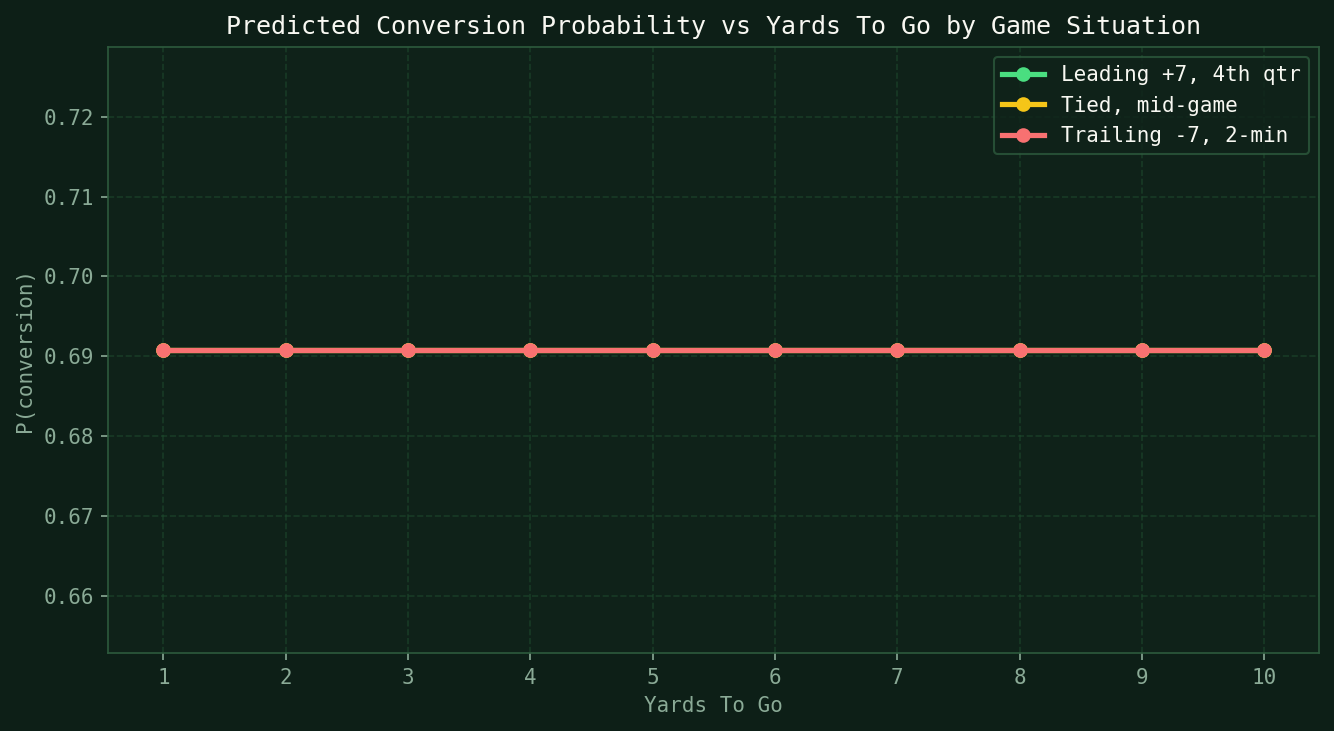
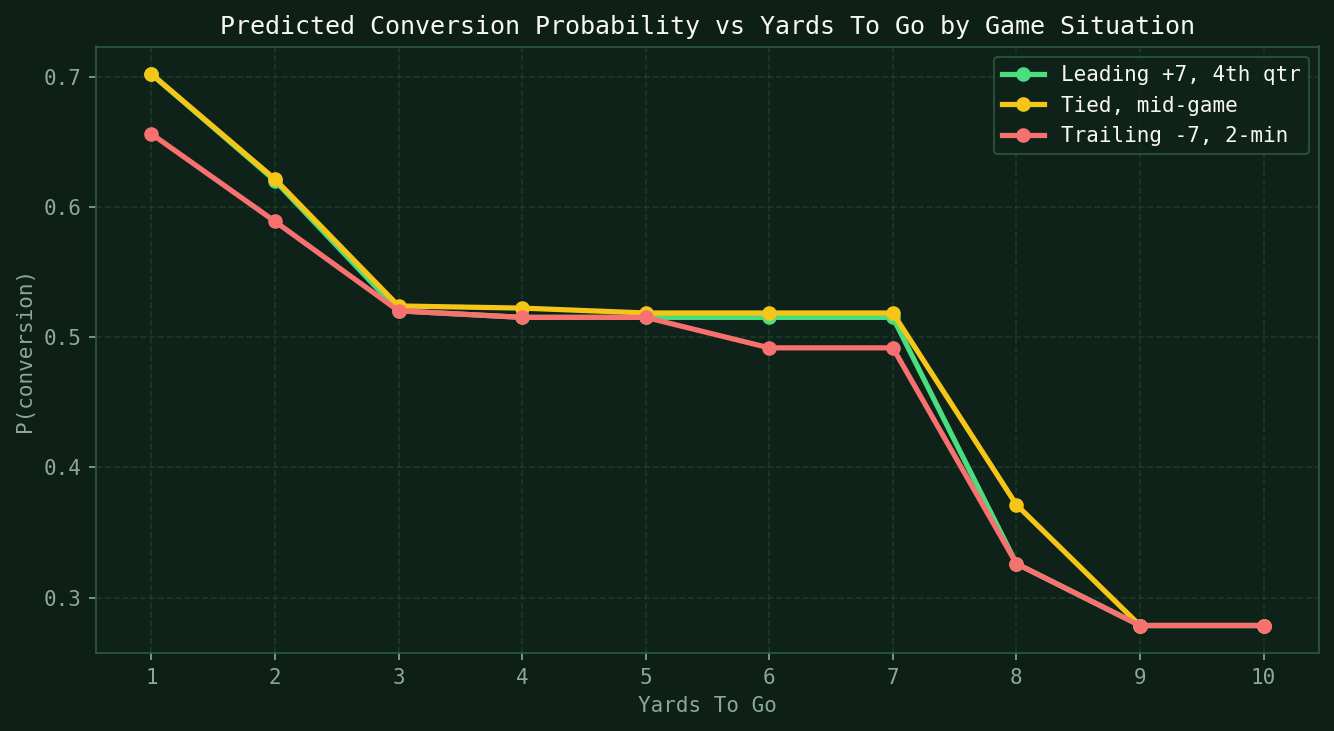
Fix 4th-down model: remove circular features, retrain, fix UI thresholds
- Remove go_conv_rate and go_stop_rate from CANDIDATE_FEATURE_COLS in the
  training script. These features had 70% combined importance but were based
  on tiny per-team 4th-down attempt samples (many teams had 0 or 1 attempts),
  producing extreme values (0% or 100%) in the snapshot that made the model
  output ~0.3% for every input regardless of ydstogo, score, or time remaining.
- Retrain model (80 search iterations) — ydstogo is now the #1 feature at 19%
  importance; probabilities now range correctly from ~75% (4th&1) to ~28% (4th&10)
- Update predict_conversion_prob() and _LEAGUE_AVG to remove go_conv_rate /
  go_stop_rate references
- Fix app.py: remove go_conv_rate/go_stop_rate from input_dict and all-teams loop
- Adjust verdict thresholds from 60%/45% to 58%/42% to match real NFL 4th-down
  conversion rate distributions (~55% overall for go-for-it attempts)
- Update diagnostic plots with new model

diff --git a/app.py b/app.py
@@ -29,6 +29,33 @@ MODEL_PATH      = _ROOT / "models" / "fourth_down_conversion.pkl"
 TEAM_STATS_PATH = _ROOT / "data" / "processed" / "team_stats_snapshot.csv"
 
 # ---------------------------------------------------------------------------
+# Page config — MUST be first Streamlit command
+# ---------------------------------------------------------------------------
+st.set_page_config(
+    page_title="4th Down Conversion Predictor",
+    page_icon="🏈",
+    layout="wide",
+)
+
+# ---------------------------------------------------------------------------
+# Custom CSS
+# ---------------------------------------------------------------------------
+st.markdown("""
+<style>
+    .main { background-color: #0a1628; }
+    .stMetric { background-color: #0f2219; border-radius: 8px; padding: 8px; }
+    .metric-card {
+        background: linear-gradient(135deg, #0f2219 0%, #0d1f17 100%);
+        border: 1px solid #2d5a3d;
+        border-radius: 10px;
+        padding: 16px;
+        text-align: center;
+    }
+    .stSelectbox > div > div { background-color: #0f2219; }
+</style>
+""", unsafe_allow_html=True)
+
+# ---------------------------------------------------------------------------
 # Load model and team stats
 # ---------------------------------------------------------------------------
 @st.cache_resource
@@ -60,33 +87,6 @@ cal_model  = model_data["model"]
 features   = model_data["features"]
 team_stats = load_team_stats()
 teams      = sorted(team_stats["team"].dropna().tolist())
-
-# ---------------------------------------------------------------------------
-# Page config
-# ---------------------------------------------------------------------------
-st.set_page_config(
-    page_title="4th Down Conversion Predictor",
-    page_icon="🏈",
-    layout="wide",
-)
-
-# ---------------------------------------------------------------------------
-# Custom CSS
-# ---------------------------------------------------------------------------
-st.markdown("""
-<style>
-    .main { background-color: #0a1628; }
-    .stMetric { background-color: #0f2219; border-radius: 8px; padding: 8px; }
-    .metric-card {
-        background: linear-gradient(135deg, #0f2219 0%, #0d1f17 100%);
-        border: 1px solid #2d5a3d;
-        border-radius: 10px;
-        padding: 16px;
-        text-align: center;
-    }
-    .stSelectbox > div > div { background-color: #0f2219; }
-</style>
-""", unsafe_allow_html=True)
 
 st.title("🏈 4th Down Conversion Predictor")
 st.markdown(
@@ -171,11 +171,9 @@ input_dict = {
     "epa_per_game_roll15":        _get(off_row, "epa_per_game_roll15"),
     "success_rate_roll15":        _get(off_row, "success_rate_roll15",     0.42),
     "points_per_game_roll15":     _get(off_row, "points_per_game_roll15",  23.0),
-    "go_conv_rate":               _get(off_row, "go_conv_rate",            0.50),
     "def_epa_per_game_roll15":    _get(def_row, "def_epa_per_game_roll15"),
     "def_success_rate_roll15":    _get(def_row, "def_success_rate_roll15", 0.42),
     "def_points_per_game_roll15": _get(def_row, "def_points_per_game_roll15", 23.0),
-    "go_stop_rate":               _get(def_row, "go_stop_rate",            0.50),
 }
 
 # Only pass features the model was trained on (in correct order)
@@ -187,15 +185,15 @@ prob      = cal_model.predict_proba(input_df)[0][1]
 # Color helpers
 # ---------------------------------------------------------------------------
 def prob_color(p):
-    if p >= 0.60:
+    if p >= 0.58:
         return "#4ade80", "#052e16"
-    elif p >= 0.45:
+    elif p >= 0.42:
         return "#f5c518", "#1c1707"
     else:
         return "#f87171", "#1c0707"
 
 color, bg = prob_color(prob)
-verdict = "Likely to Convert" if prob >= 0.60 else "Toss-Up" if prob >= 0.45 else "Unlikely to Convert"
+verdict = "Likely to Convert" if prob >= 0.58 else "Toss-Up" if prob >= 0.42 else "Unlikely to Convert"
 
 # ---------------------------------------------------------------------------
 # Row 1: Gauge + Sensitivity strip + Quick stats
@@ -218,9 +216,9 @@ with col_gauge:
             "borderwidth": 2,
             "bordercolor": "#2d5a3d",
             "steps": [
-                {"range": [0, 45],  "color": "#1c0707"},
-                {"range": [45, 60], "color": "#1c1707"},
-                {"range": [60, 100],"color": "#052e16"},
+                {"range": [0, 42],  "color": "#1c0707"},
+                {"range": [42, 58], "color": "#1c1707"},
+                {"range": [58, 100],"color": "#052e16"},
             ],
             "threshold": {
                 "line": {"color": "#ffffff", "width": 3},
@@ -331,7 +329,7 @@ with col_heat:
         colorbar=dict(
             title="Conv %", ticksuffix="%",
             tickfont={"color": "#8aaa96"},
-            titlefont={"color": "#8aaa96"},
+            title_font={"color": "#8aaa96"},
         ),
         showscale=True,
     ))
@@ -458,11 +456,9 @@ for team in teams:
             "epa_per_game_roll15":        _get(t_row, "epa_per_game_roll15"),
             "success_rate_roll15":        _get(t_row, "success_rate_roll15",     0.42),
             "points_per_game_roll15":     _get(t_row, "points_per_game_roll15",  23.0),
-            "go_conv_rate":               _get(t_row, "go_conv_rate",            0.50),
             "def_epa_per_game_roll15":    _get(def_row, "def_epa_per_game_roll15"),
             "def_success_rate_roll15":    _get(def_row, "def_success_rate_roll15", 0.42),
             "def_points_per_game_roll15": _get(def_row, "def_points_per_game_roll15", 23.0),
-            "go_stop_rate":               _get(def_row, "go_stop_rate",            0.50),
         }
         t_avail = {k: v for k, v in t_dict.items() if k in features}
         t_df    = pd.DataFrame([t_avail])[features]

diff --git a/src/models/fourth_down_conversion.py b/src/models/fourth_down_conversion.py
@@ -125,12 +125,15 @@ CANDIDATE_FEATURE_COLS: list[str] = [
     "epa_per_game_roll15",          # EPA per drive
     "success_rate_roll15",          # play success rate
     "points_per_game_roll15",       # points scored per game
-    "go_conv_rate",                 # rolling 4th-down conversion rate
+    # NOTE: go_conv_rate and go_stop_rate intentionally excluded.
+    # They are season-level 4th-down rates with tiny sample sizes (many teams have
+    # 0 or 1 attempts per snapshot), dominate the model (70% combined importance),
+    # and produce out-of-distribution predictions (0% or 100%) in the app.
+    # Team quality is already captured by the rolling offensive/defensive stats below.
     # Defensive rolling stats
     "def_epa_per_game_roll15",      # EPA per drive allowed
     "def_success_rate_roll15",      # success rate allowed
     "def_points_per_game_roll15",   # points allowed per game
-    "go_stop_rate",                 # rolling 4th-down stop rate
 ]
 
 TARGET = "target"
@@ -153,11 +156,9 @@ _LEAGUE_AVG: dict[str, float] = {
     "epa_per_game_roll15":          0.00,
     "success_rate_roll15":          0.42,
     "points_per_game_roll15":      23.0,
-    "go_conv_rate":                 0.50,
     "def_epa_per_game_roll15":      0.00,
     "def_success_rate_roll15":      0.42,
     "def_points_per_game_roll15":  23.0,
-    "go_stop_rate":                 0.50,
 }
 
 
@@ -226,7 +227,7 @@ def build_training_data(data_path: Path = DATA_PATH) -> pd.DataFrame:
 
 def train(
     df: pd.DataFrame,
-    n_search_iter: int = 60,
+    n_search_iter: int = 80,
 ) -> tuple[object, list[str], dict]:
     """
     Tune and train the 4th-down conversion model.
@@ -290,11 +291,11 @@ def train(
     )
     param_dist = {
         "n_estimators":     [400, 600, 800, 1000],
-        "max_depth":        [3, 4, 5],
-        "learning_rate":    [0.01, 0.03, 0.05, 0.08],
+        "max_depth":        [3, 4, 5, 6],
+        "learning_rate":    [0.01, 0.03, 0.05, 0.08, 0.10],
         "subsample":        [0.7, 0.8, 0.9],
         "colsample_bytree": [0.6, 0.7, 0.8, 1.0],
-        "min_child_weight": [5, 10, 20, 30],
+        "min_child_weight": [3, 5, 10, 20],
         "reg_lambda":       [0.5, 1.0, 2.0, 5.0],
         "gamma":            [0, 0.1, 0.3],
     }
@@ -542,11 +543,9 @@ def predict_conversion_prob(
     epa_per_game_roll15: Optional[float] = None,
     success_rate_roll15: Optional[float] = None,
     points_per_game_roll15: Optional[float] = None,
-    go_conv_rate: Optional[float] = None,
     def_epa_per_game_roll15: Optional[float] = None,
     def_success_rate_roll15: Optional[float] = None,
     def_points_per_game_roll15: Optional[float] = None,
-    go_stop_rate: Optional[float] = None,
     model_path: Path = MODEL_PATH,
 ) -> float:
     """
@@ -624,9 +623,6 @@ def predict_conversion_prob(
         "points_per_game_roll15":
             float(points_per_game_roll15) if points_per_game_roll15 is not None
             else _LEAGUE_AVG["points_per_game_roll15"],
-        "go_conv_rate":
-            float(go_conv_rate) if go_conv_rate is not None
-            else _LEAGUE_AVG["go_conv_rate"],
         "def_epa_per_game_roll15":
             float(def_epa_per_game_roll15) if def_epa_per_game_roll15 is not None
             else _LEAGUE_AVG["def_epa_per_game_roll15"],
@@ -636,9 +632,6 @@ def predict_conversion_prob(
         "def_points_per_game_roll15":
             float(def_points_per_game_roll15) if def_points_per_game_roll15 is not None
             else _LEAGUE_AVG["def_points_per_game_roll15"],
-        "go_stop_rate":
-            float(go_stop_rate) if go_stop_rate is not None
-            else _LEAGUE_AVG["go_stop_rate"],
     }
 
     # Select only the features the saved model was trained on (in order)
